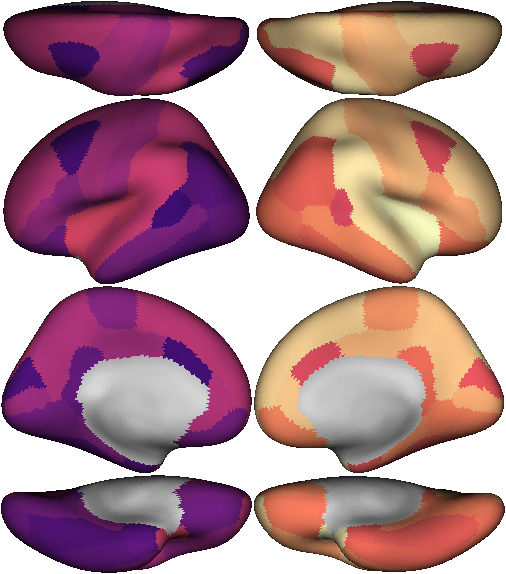
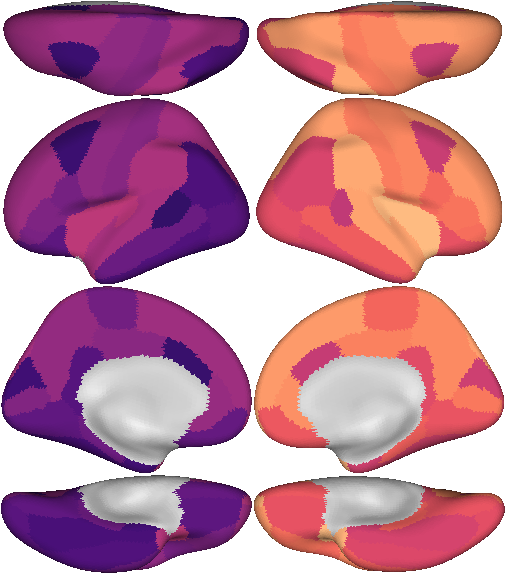
shading brightness improvement

diff --git a/brainmontage.py b/brainmontage.py
@@ -304,7 +304,11 @@ def create_montage_figure(roivals,atlasinfo=None, atlasname=None,
     #roivals_rescaled=roivals
     #clim_rescaled=clim
     
-    roivals_rescaled=np.clip(1000*((roivals-clim[0])/(clim[1]-clim[0])),zeroval,1000)
+    clim_denom=clim[1]-clim[0]
+    if clim_denom==0:
+        clim_denom=1
+        
+    roivals_rescaled=np.clip(1000*((roivals-clim[0])/clim_denom),zeroval,1000)
     clim_rescaled=[0,1000]
     
     surfvalsLR=roi2surf(roivals_rescaled,atlasinfo)
@@ -329,6 +333,10 @@ def create_montage_figure(roivals,atlasinfo=None, atlasname=None,
                     shading_smooth_iters=10
                 shadingvals=mesh_shading(surfLR[h][0], surfLR[h][1], lightdir)
                 shadingvals,_=mesh_diffuse(vertvals=shadingvals,adjacency=diffuserLR_sparse[h],iters=shading_smooth_iters)
+                
+                #adjust computed shading values to look brighter
+                shadingvals=np.minimum(shadingvals**.5,.8)/.8;
+                
                 shadingvals=shadingvals/shadingvals.max()
                 
                 v=plotting.plot_surf_stat_map(fsaverage[surftype+'_'+h], stat_map=shadingvals,

diff --git a/README.md b/README.md
@@ -48,4 +48,4 @@ from PIL import Image
 Image.fromarray(img).save('mydata_montage.png')
 #or you can add outputimagefile='mydata_montage.png' to create_montage_figure() to save directly
 ```
-<img src="mydata_montage.png" width=25%> <img src="mydata_montage_whitesurf.png" width=25%>
+<img src="./mydata_montage.png" width=25%> <img src="./mydata_montage_whitesurf.png" width=25%>
